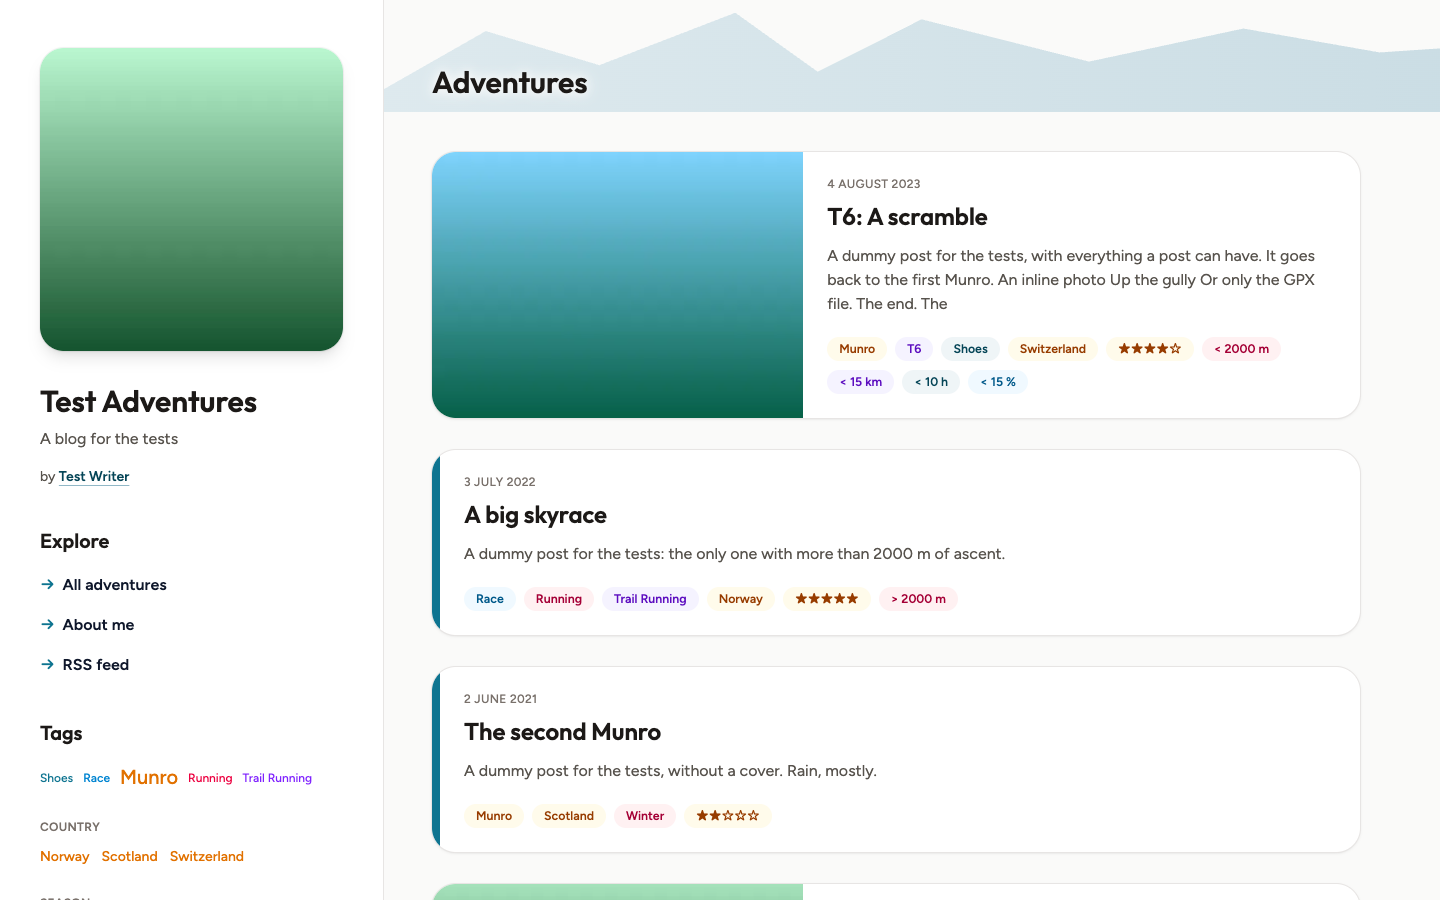
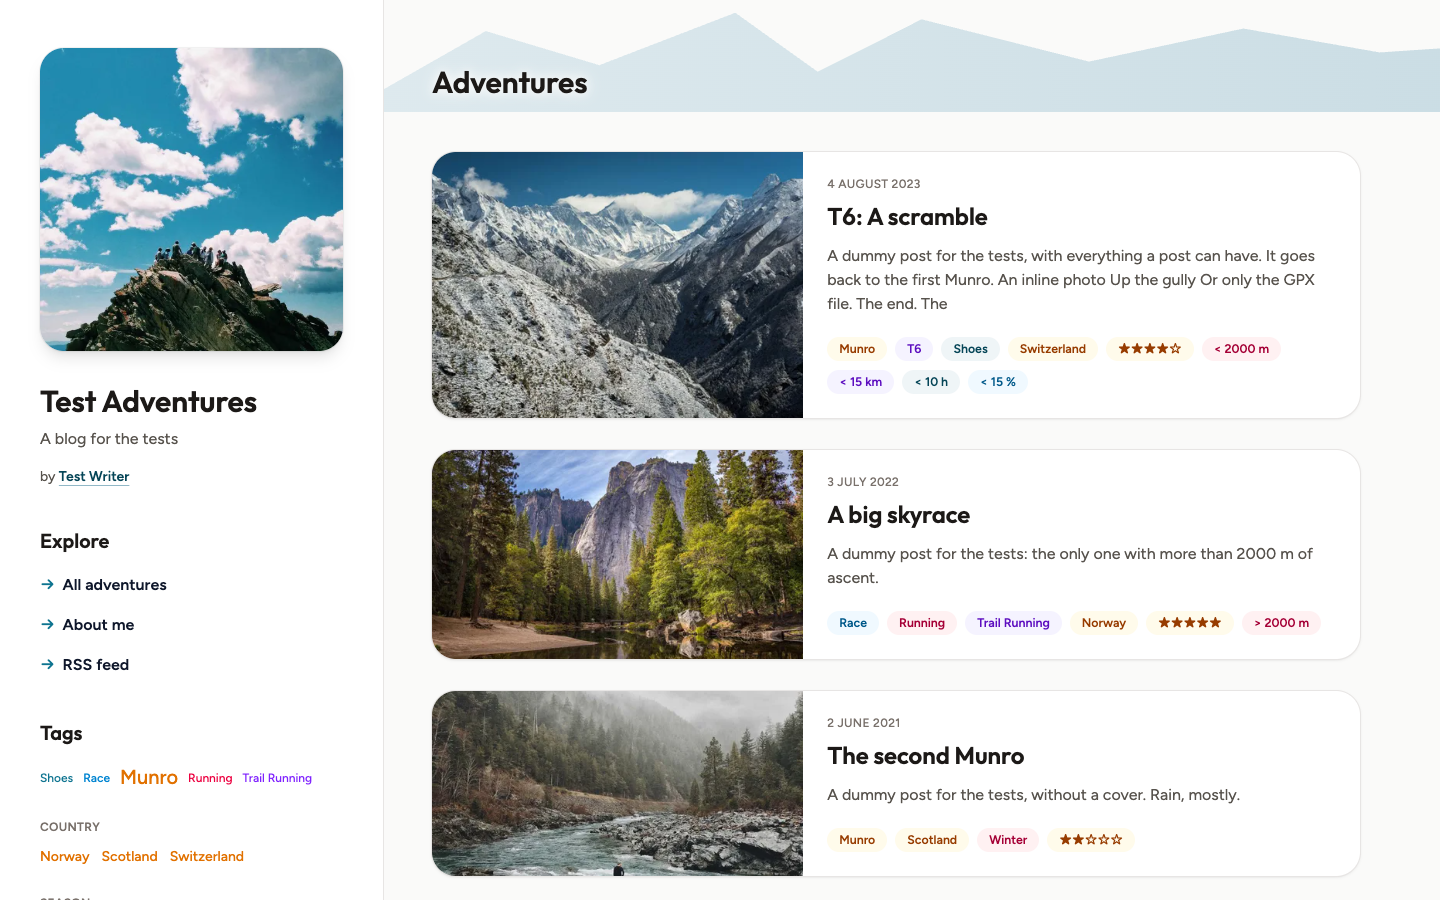
docs: screenshots with real photos
pnpm screenshots builds a copy of the dummy blog with photos from Lorem
Picsum, fixed by id, in place of its tiny ones, and a cover for every
post; the tests keep their own.

Claude-Session: https://claude.ai/code/session_01QduxfdU5M8f2gizGsfT36z

diff --git a/README.md b/README.md
@@ -17,7 +17,8 @@ Version 0.2.0, see [CHANGELOG.md](CHANGELOG.md).
 ## Screenshots
 
 The front page of the dummy blog of the tests (`tests/fixtures/content/`)
-in each theme.
+in each theme, with photos from [Lorem Picsum](https://picsum.photos)
+(Unsplash) in place of its tiny ones.
 
 ### alps
 
@@ -135,7 +136,8 @@ folder: the core's own code, no install in the blog and nothing to publish.
 BLOG_CONTENT=../cowtent-starter node bin/cowtent.mjs start
 ```
 
-`pnpm screenshots` makes the screenshots above anew from the dummy blog, in
-the Chrome that's installed, and overwrites `docs/screenshots/`
+`pnpm screenshots` makes the screenshots above anew from a copy of the dummy
+blog with the same Lorem Picsum photos every time (a cover for every post),
+in the Chrome that's installed, and overwrites `docs/screenshots/`
 (`scripts/screenshots.mjs`). A new theme gets its screenshot by itself; its
 heading and image in this README are added by hand.
